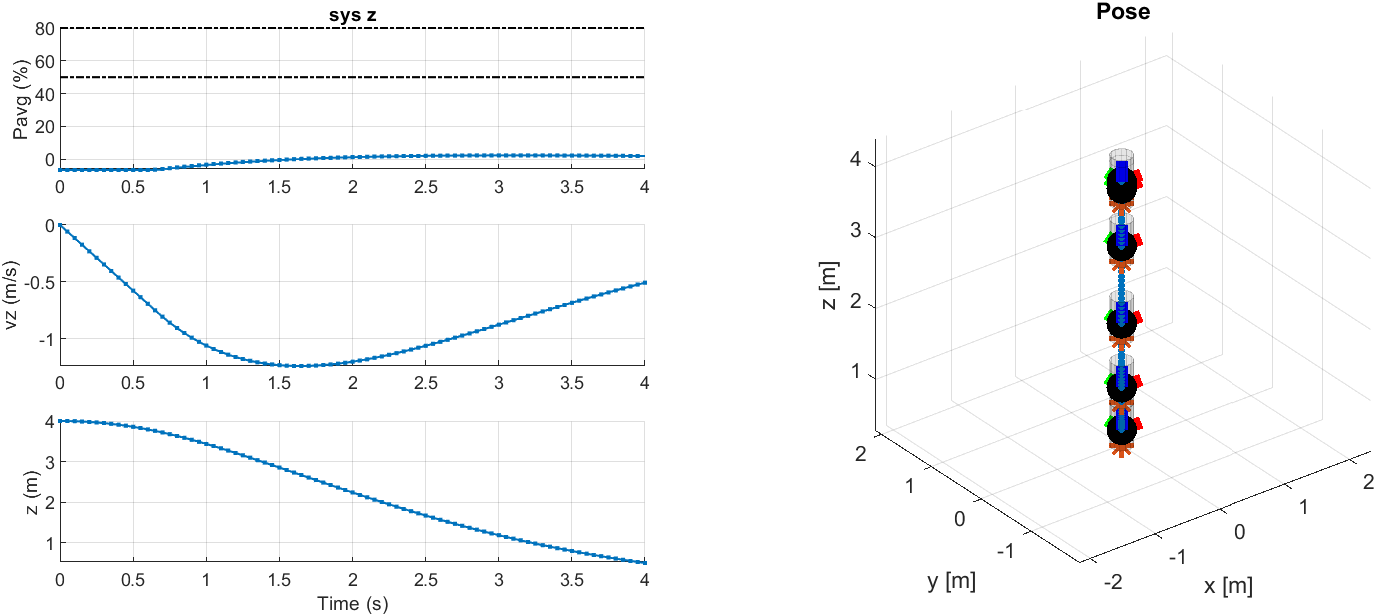
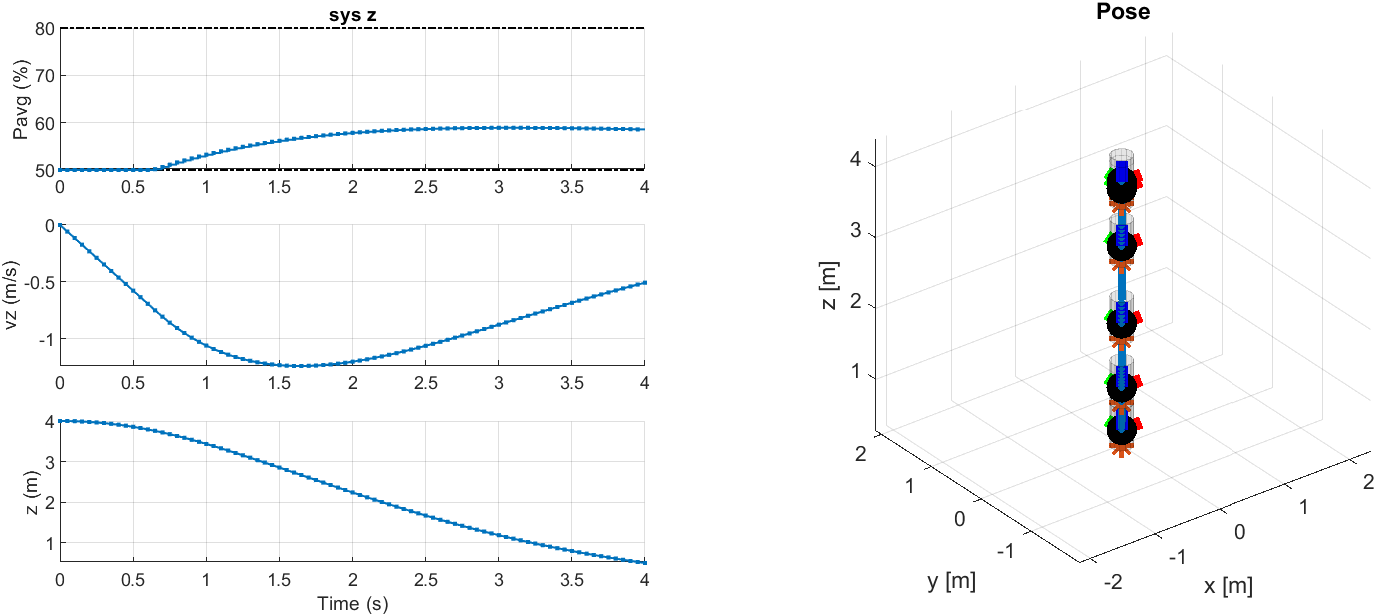
corrected error in 3.1 plots

Changed region(s): [[0.0, 0.1851, 0.4688, 0.2776], [0.0312, 0.0925, 0.4688, 0.1542], [0.0312, 0.2468, 0.0625, 0.2776]]

diff --git a/rocket_project/Deliverable_3_1/Deliverable_3_1.m b/rocket_project/Deliverable_3_1/Deliverable_3_1.m
@@ -143,7 +143,7 @@ u_z = mpc_z.get_u(x0);
 % pad last input to get consistent size with time and state
 [u, T_opt, X_opt, U_opt] = mpc_z.get_u(x0);
 U_opt(:,end+1) = nan;
-ph = rocket.plotvis_sub(T_opt, X_opt, U_opt, sys_z, xs, us);
+ph = rocket.plotvis_sub(T_opt, X_opt, U_opt+us(3), sys_z, xs, us);
 exportgraphics(ph.fig, "Deliverable_3_1/Figures/3.1_z_subsystem_openloop.png")
 
 
